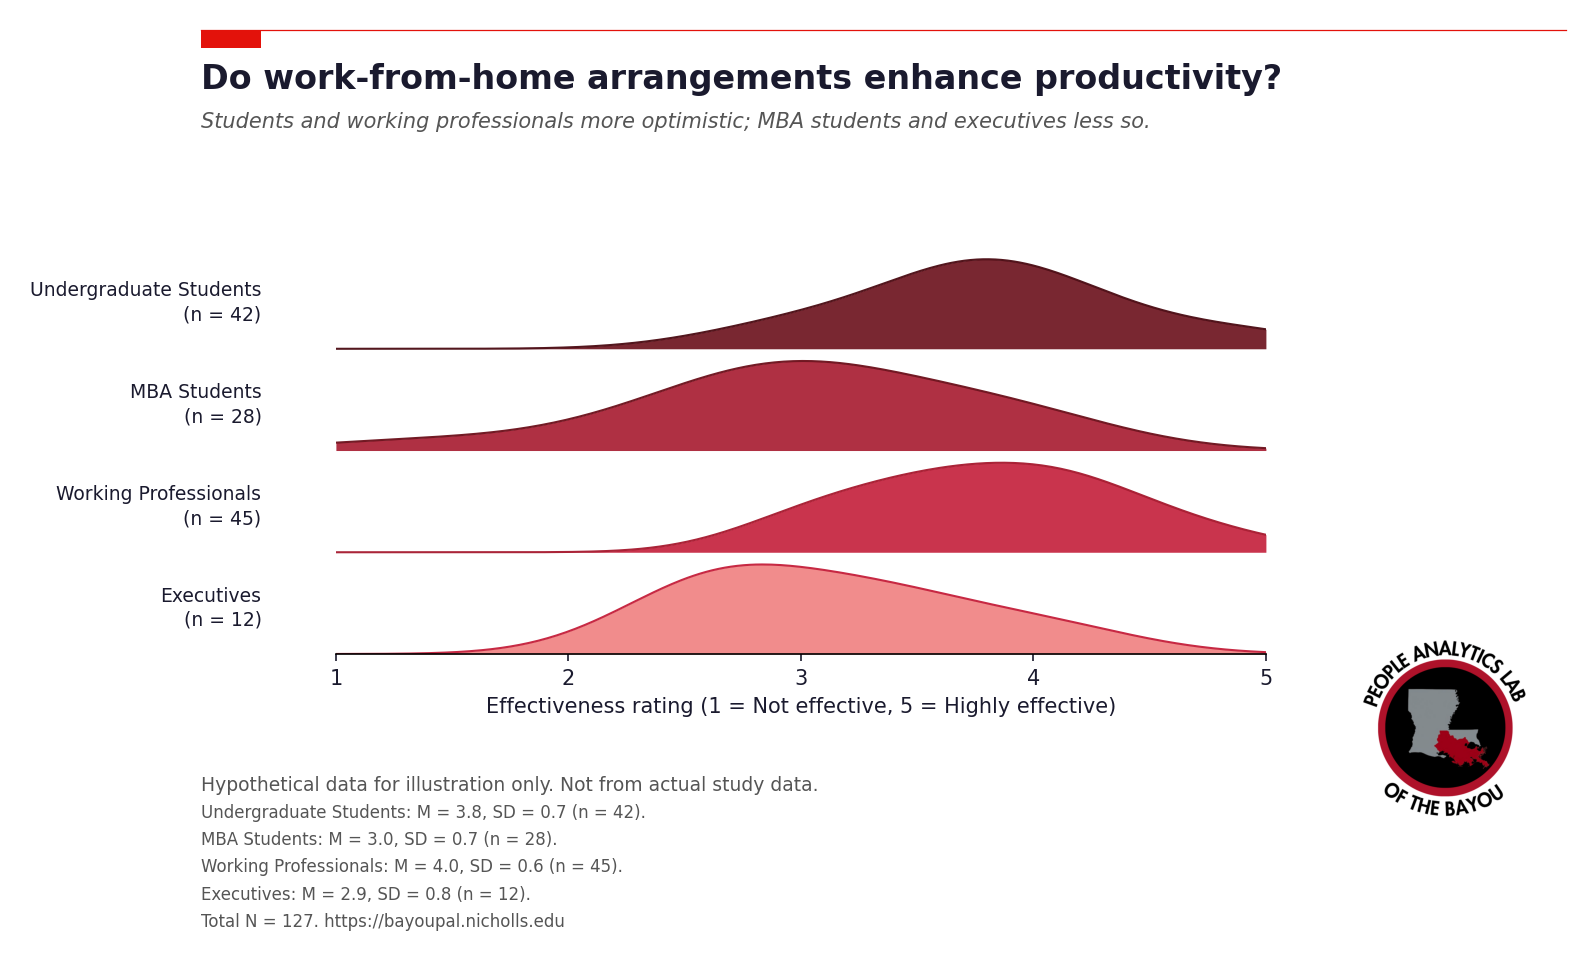
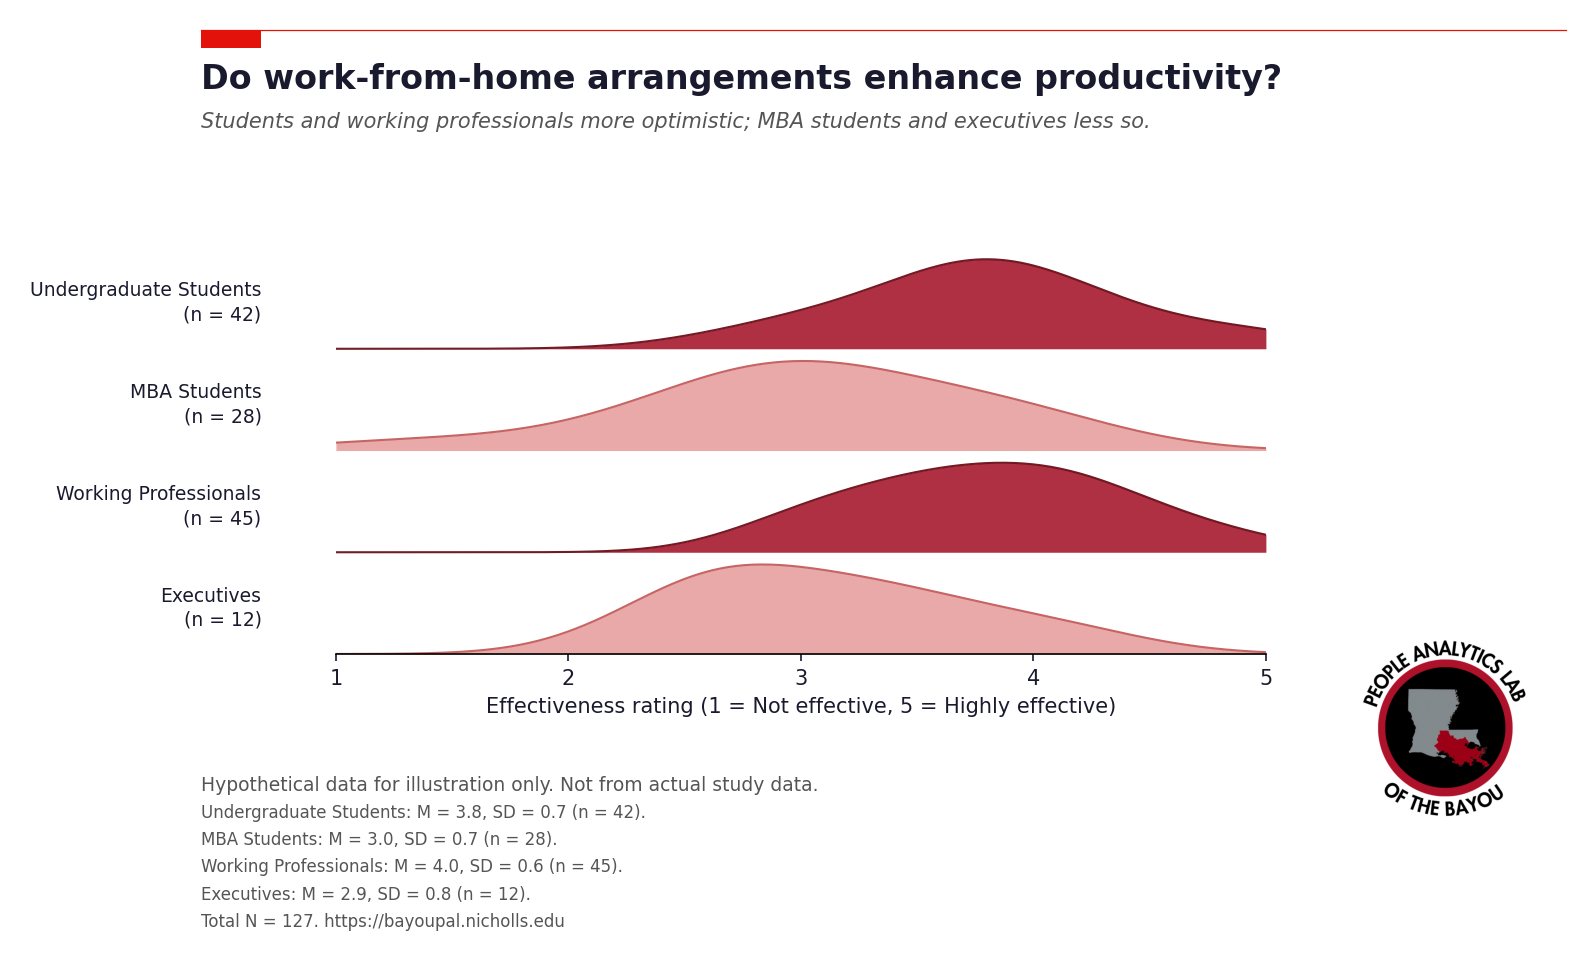
Infographic: two-color clusters (optimistic vs skeptical)

Changed region(s): [[0.215, 0.2497, 0.7987, 0.6868]]

diff --git a/scripts/infographic_wfh_ridges.py b/scripts/infographic_wfh_ridges.py
@@ -14,9 +14,11 @@ import numpy as np
 import matplotlib.pyplot as plt
 from scipy import stats
 
-# Red shades with clearer contrast (light to dark) for the four density distributions
-RED_SHADES = ["#f08080", "#c41e3a", "#A6192E", "#6b0f1a"]  # light, medium, Nicholls, dark
-NICHOLLS_RED_DARK = "#4a0a12"  # outline for darkest fill
+# Two clusters: optimistic (Undergrads, Working Prof) = darker; skeptical (MBA, Executives) = lighter
+CLUSTER_OPTIMISTIC = "#A6192E"   # darker red — Undergraduate Students, Working Professionals
+CLUSTER_SKEPTICAL = "#e8a0a0"   # lighter red — MBA Students, Executives
+CLUSTER_OPTIMISTIC_EDGE = "#6b0f1a"
+CLUSTER_SKEPTICAL_EDGE = "#c45c5c"
 
 # Repo root: walk up until we find static/
 _resolved = Path(__file__).resolve()
@@ -103,14 +105,17 @@ def main():
     base = 0
     # step already set above for ylim
 
+    # reversed order: bottom to top = Executives(0), Working Prof(1), MBA(2), Undergrad(3)
+    # Optimistic cluster (darker): Undergrad, Working Prof.  Skeptical (lighter): MBA, Executives.
     for i, persp in enumerate(reversed(PERSPECTIVES)):
         name, n, mean, sd = persp["name"], persp["n"], persp["mean"], persp["sd"]
         raw = np.random.normal(mean, sd, n)
         raw = np.clip(raw, X_MIN, X_MAX)
         dens = smooth_kde_clipped(raw, x_grid, bw_mult=1.2)
         y_curve = base + dens * step * 0.88
-        fill_color = RED_SHADES[i % len(RED_SHADES)]
-        edge_color = RED_SHADES[min(i + 1, len(RED_SHADES) - 1)] if i < len(RED_SHADES) - 1 else NICHOLLS_RED_DARK
+        is_skeptical = i in (0, 2)  # Executives, MBA
+        fill_color = CLUSTER_SKEPTICAL if is_skeptical else CLUSTER_OPTIMISTIC
+        edge_color = CLUSTER_SKEPTICAL_EDGE if is_skeptical else CLUSTER_OPTIMISTIC_EDGE
         ax.fill_between(x_grid, base, y_curve, color=fill_color, alpha=0.9, linewidth=0)
         ax.plot(x_grid, y_curve, color=edge_color, linewidth=1, alpha=0.95)
         # Two-line labels with paragraph spacing (name on first line, (n = x) on second)
